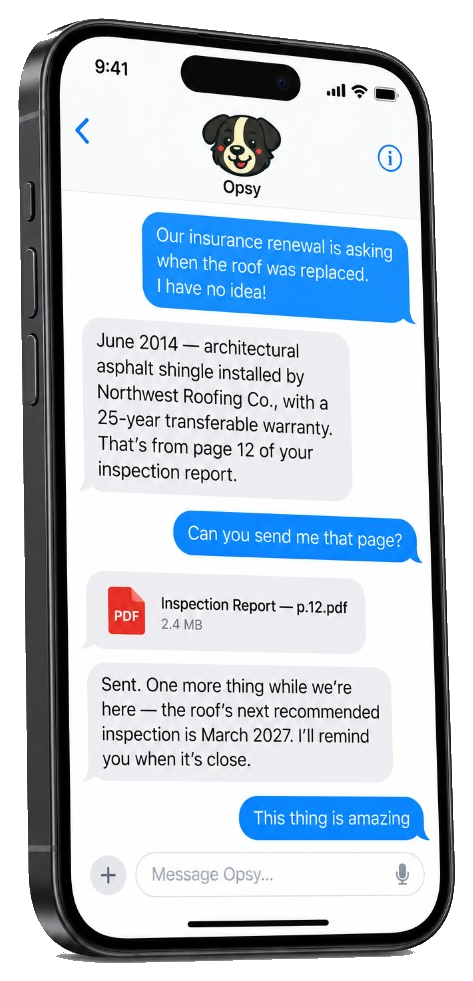
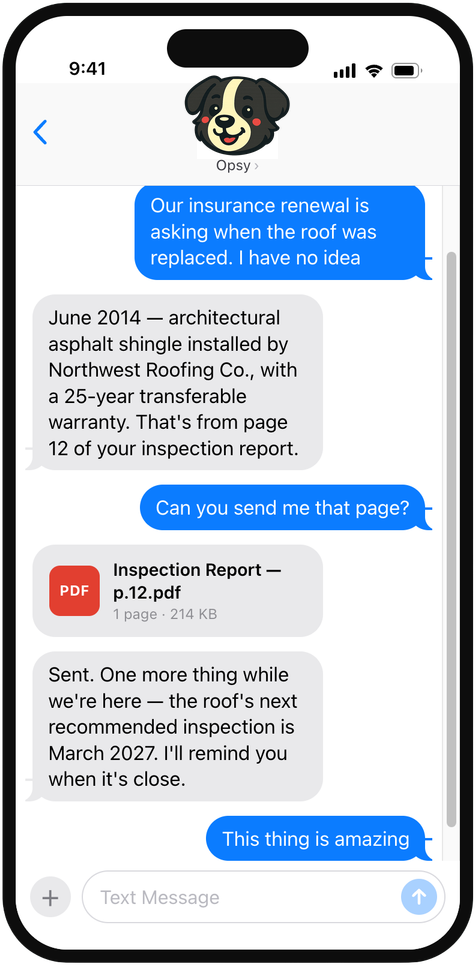
Fix agent landing phone mockup

diff --git a/src/components/landing/PhoneMockup.jsx b/src/components/landing/PhoneMockup.jsx
@@ -105,6 +105,7 @@ function wait(ms, signal) {
 
 function StatusIcons() {
   return (
+<<<<<<< Updated upstream
     <span className="phone-demo__status-icons" aria-hidden="true">
       <svg width="18" height="12" viewBox="0 0 18 12">
         <rect x="0" y="7" width="3" height="5" rx="1" fill="#111" />
@@ -126,6 +127,19 @@ function StatusIcons() {
           rx="3.5"
           fill="none"
           stroke="#111"
+=======
+    <div className={className}>
+      <picture>
+        <source srcSet="/branding/phone-mockup.webp?v=5" type="image/webp" />
+        <img
+          src="/branding/phone-mockup.png?v=5"
+          alt="Text conversation with Opsy sharing the roof replacement date from an inspection report"
+          className="phone-cutout h-[min(52svh,480px)] w-auto max-w-[min(100%,280px)] object-contain sm:h-[min(58svh,560px)] sm:max-w-[340px] lg:h-[min(78svh,720px)] lg:max-w-[440px]"
+          width={476}
+          height={965}
+          decoding="async"
+          fetchPriority="high"
+>>>>>>> Stashed changes
         />
         <rect x="2.5" y="2.5" width="14" height="7" rx="1.8" fill="#111" />
         <rect x="22" y="3.8" width="2.4" height="4.4" rx="1.2" fill="#111" />
